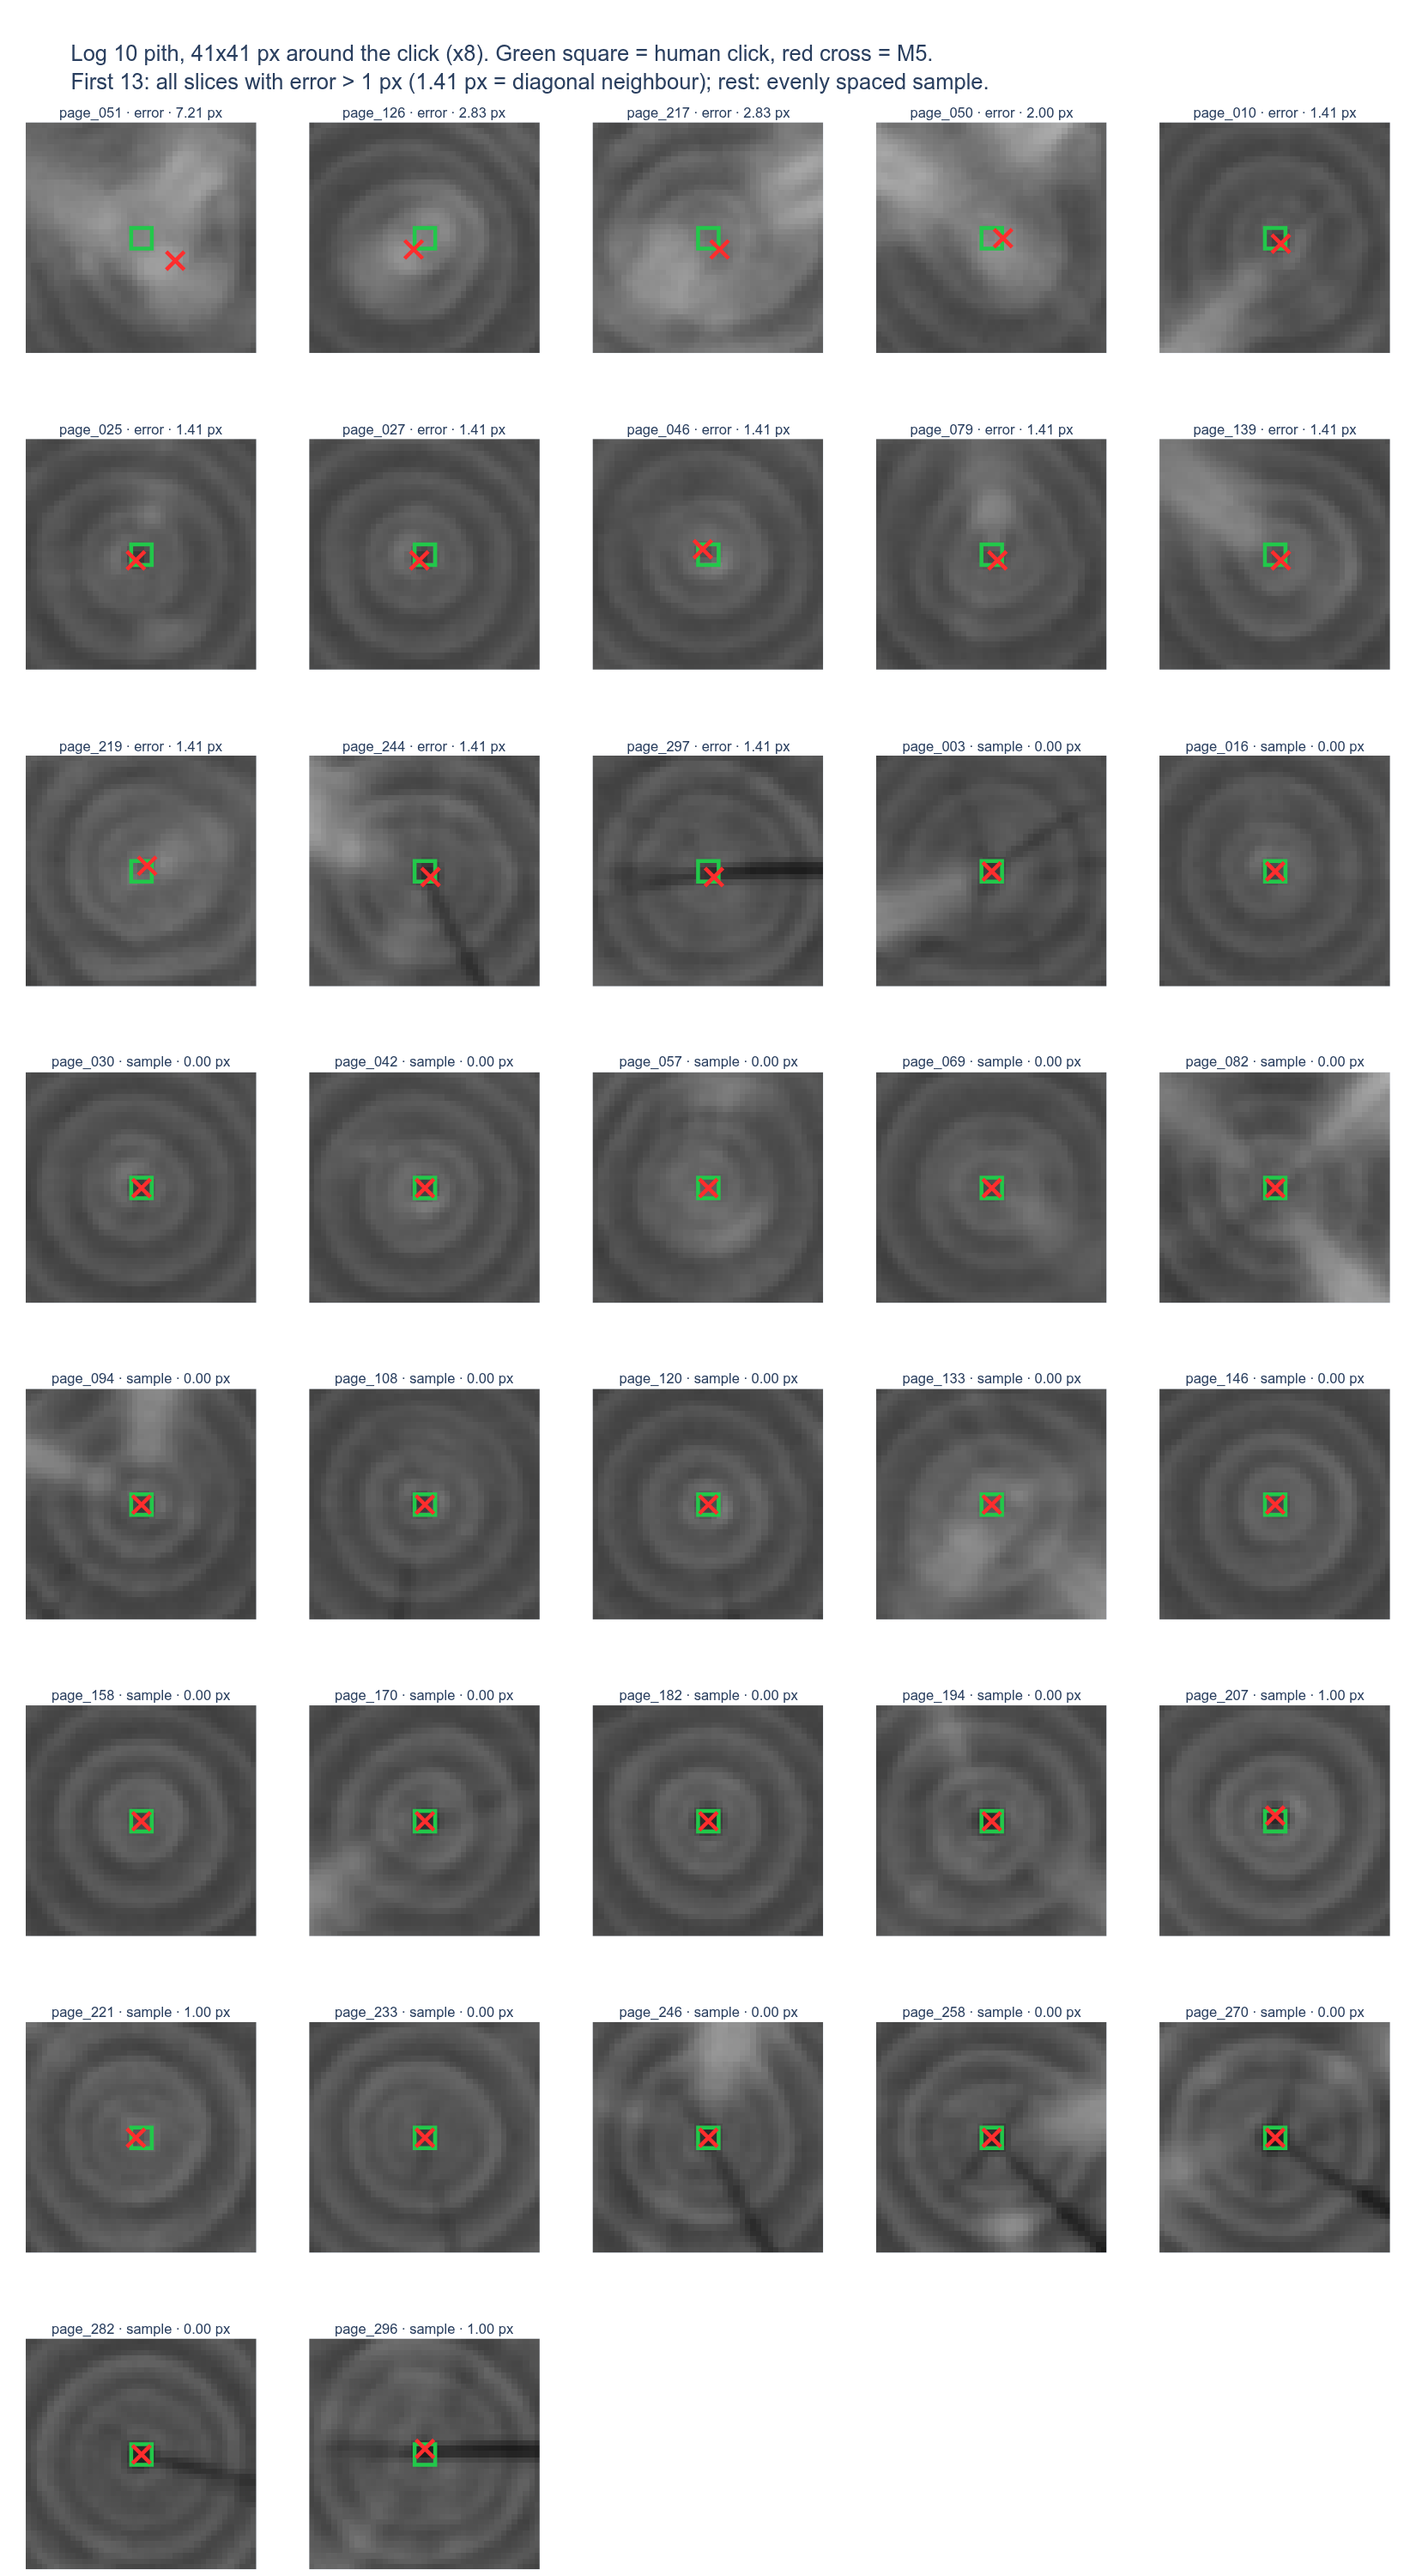
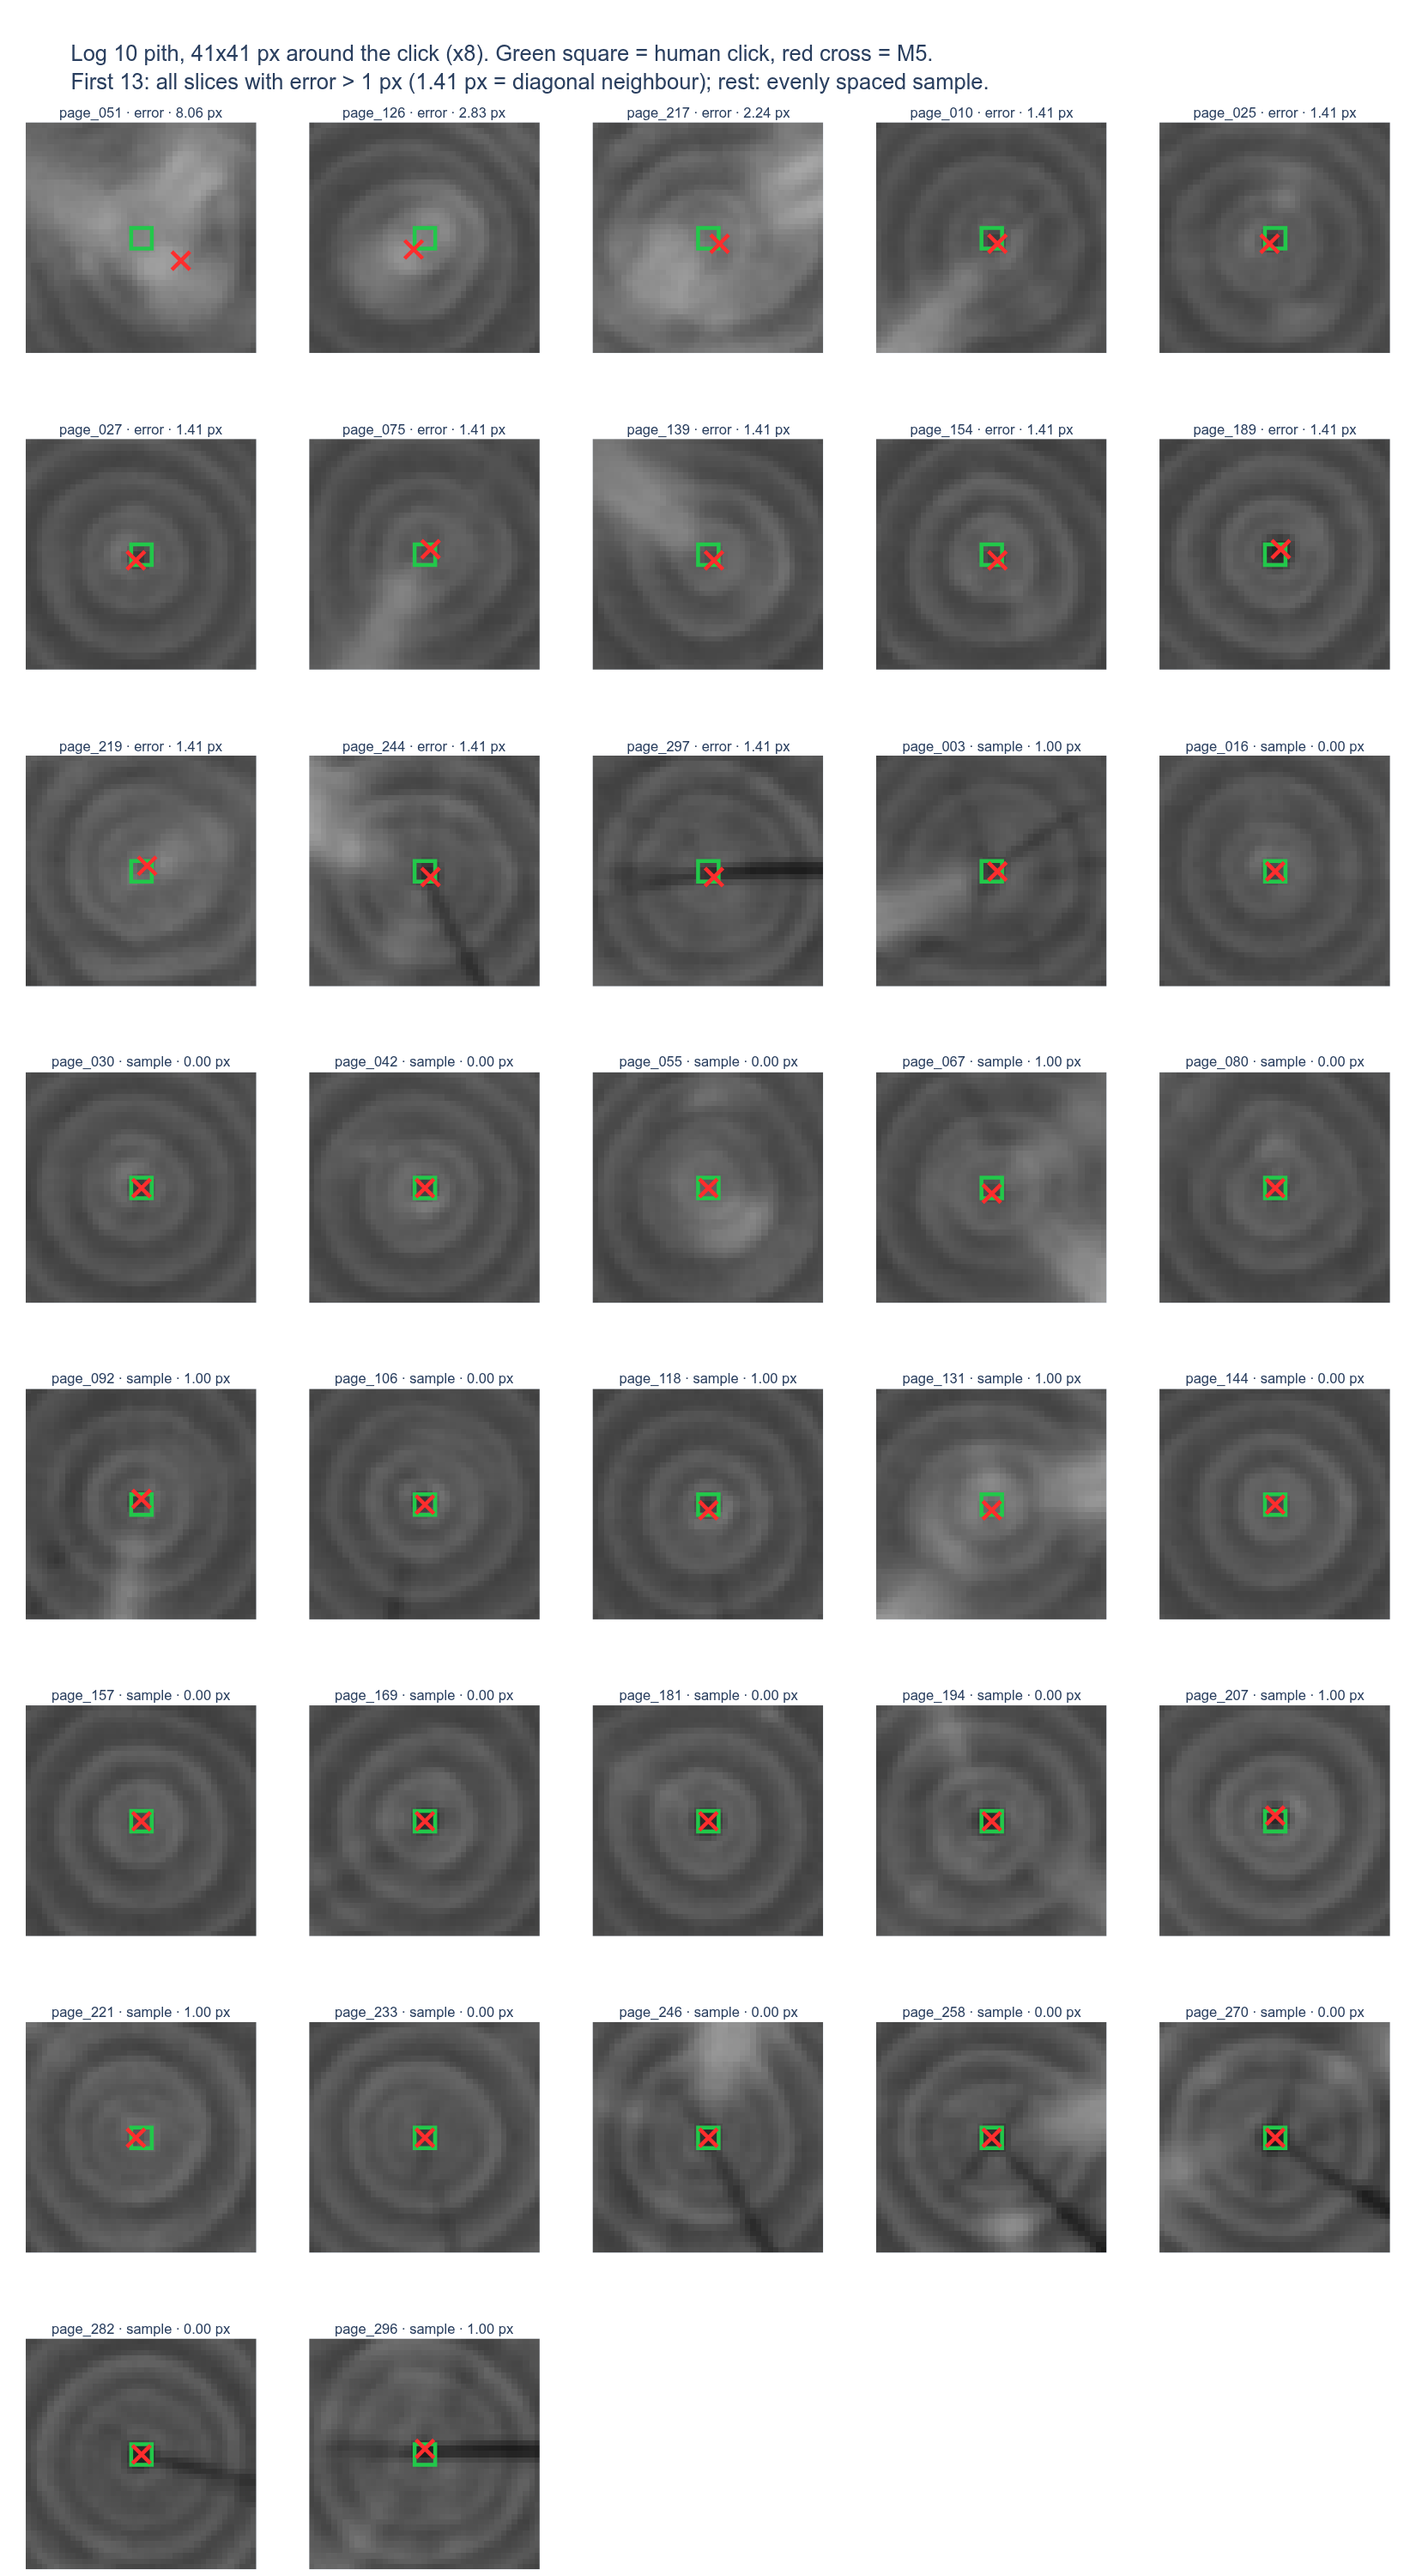
Article: M5 pith numbers from the float32 run only

diff --git a/article/development.py b/article/development.py
@@ -10,8 +10,8 @@ SOURCES = {
     "nnunet.json": "/home/mary/dev/ct-log/report_2026-10/scores/nnunet.json",
     "ensemble_dec512.json": "/home/mary/dev/ct-log/report_2026-10/scores/ensemble_dec512.json",
     "ens_dec512.json": "/home/mary/dev/ct-log/report_2026-10/euler_exports/ensemble_dec512/ens_dec512.json",
-    "pith_wood_dec512.json": "/home/mary/dev/ct-log/report_2026-10/euler_exports/ensemble_dec512/pith_wood_dec512.json",
 }
+PITH_M5 = Path("article/data/pith_m5_log10.json")
 MILESTONES = [
     ("PL1", "May", "MedSAM2 propagation from human anchor frames"),
     ("PL2", "May", "YOLO-OBB detector + MedSAM2, slice by slice"),
@@ -88,9 +88,11 @@ def row(mid: str, when: str, what: str, data: Dict[str, dict]) -> dict:
         sources["mean_per_gt_iou"] = "nnunet.json mean_per_gt_iou_log10.2d"
     if mid == "M5":
         m5 = data["ens_dec512.json"]["log10"]["e1_ep48"]
-        for key in ("knot_iou", "mean_per_gt_iou", "inst_f1_30", "map50", "map50_95", "thin_recall", "pith_mean_px_rounded"):
+        for key in ("knot_iou", "mean_per_gt_iou", "inst_f1_30", "map50", "map50_95", "thin_recall"):
             values[key] = m5[key]
             sources[key] = "ens_dec512.json log10.e1_ep48"
+        values["pith_mean_px_rounded"] = json.loads(PITH_M5.read_text())["mean_px"]
+        sources["pith_mean_px_rounded"] = "pith_m5_log10.json mean_px (float32 run, python -m article.pith_gallery)"
     return {"id": mid, "when": when, "what": what, "values": values, "sources": sources}
 
 

diff --git a/article/pith_gallery.py b/article/pith_gallery.py
@@ -18,8 +18,8 @@ def main() -> None:
     parser.add_argument(
         "--points",
         type=Path,
-        default=Path("/home/mary/dev/ct-log/report_2026-10/euler_exports/ensemble_dec512/pith_wood_dec512.json"),
-        help="Logged M5 points [{path, gt, pred}] (euler); empty string = use --model_root instead.",
+        default=Path(""),
+        help="Optional logged points [{path, gt, pred}] instead of --model_root (default: --model_root).",
     )
     parser.add_argument("--n_random", type=int, default=24)
     parser.add_argument("--stats_out", type=Path, default=Path("article/data/pith_m5_log10.json"))

diff --git a/article/README.md b/article/README.md
@@ -85,7 +85,7 @@ Empty: not logged for that model.
 | M3 | 7 Oct | U-Net ResNet-50 | 0.744 | 0.693 | 0.877 | 0.489 | 0.900 | 0.886 | 0.915 | 0.769 | **0.359** |
 | M4 | 9 Oct | Two U-Nets averaged | 0.763 | 0.703 | 0.877 | 0.513 | 0.922 | 0.932 | 0.912 | 0.718 | 0.382 |
 | nnU-Net | 11-12 Oct | nnU-Net v2 2D | **0.768** | 0.720 | 0.898 | **0.534** | 0.911 | | | 0.744 | |
-| **M5** | 12-13 Oct | One U-Net, wide decoder | 0.763 | **0.728** | **0.911** | 0.527 | **0.933** | | | **0.846** | 0.372 |
+| **M5** | 12-13 Oct | One U-Net, wide decoder | 0.763 | **0.728** | **0.911** | 0.527 | **0.933** | | | **0.846** | 0.366 |
 
 Metric keys as logged:
 - `knot_iou`: pixel IoU of the knot class pooled over all slices, inside the wood.
@@ -121,12 +121,13 @@ Tab. 4: M5 pith error on held-out log 10 (293 slices), px between the rounded pr
 
 | Mean | Exact pixel | <= 1 px | <= 2 px | 90th percentile | Max |
 |---:|---:|---:|---:|---:|---:|
-| 0.357 | 69.3 % | 95.6 % | 99.0 % | 1.00 | 7.21 |
+| 0.366 | 68.3 % | 95.6 % | 99.0 % | 1.00 | 8.06 |
 
-Source: [data/pith_m5_log10.json](data/pith_m5_log10.json) from the logged M5 points `pith_wood_dec512.json`
-(`python -m article.pith_gallery`). Tab. 3 gives 0.372 px for the same model from a separate logged evaluation
-(`ens_dec512.json`); the cause of the 0.015 px difference was not established. A local float32 run of the same
-checkpoint gives 0.366 px, 68.3 % exact, 95.6 % within 1 px, max 8.06 px.
+Source: [data/pith_m5_log10.json](data/pith_m5_log10.json), from one float32 run of the M5 checkpoint
+(`python -m scripts.export_model_outputs ... --fp32`, then `python -m article.pith_gallery`). This is the only source
+for M5 pith numbers here and on the meeting page; Tab. 3 uses the same mean. Quote **0.37 px** in the text. Other M5
+pith means in older files (0.357, 0.372, 0.383 px) come from separate evaluation runs whose predicted point differs
+by 1 px on a few slices; do not mix them with this table.
 
 ## Figures
 
